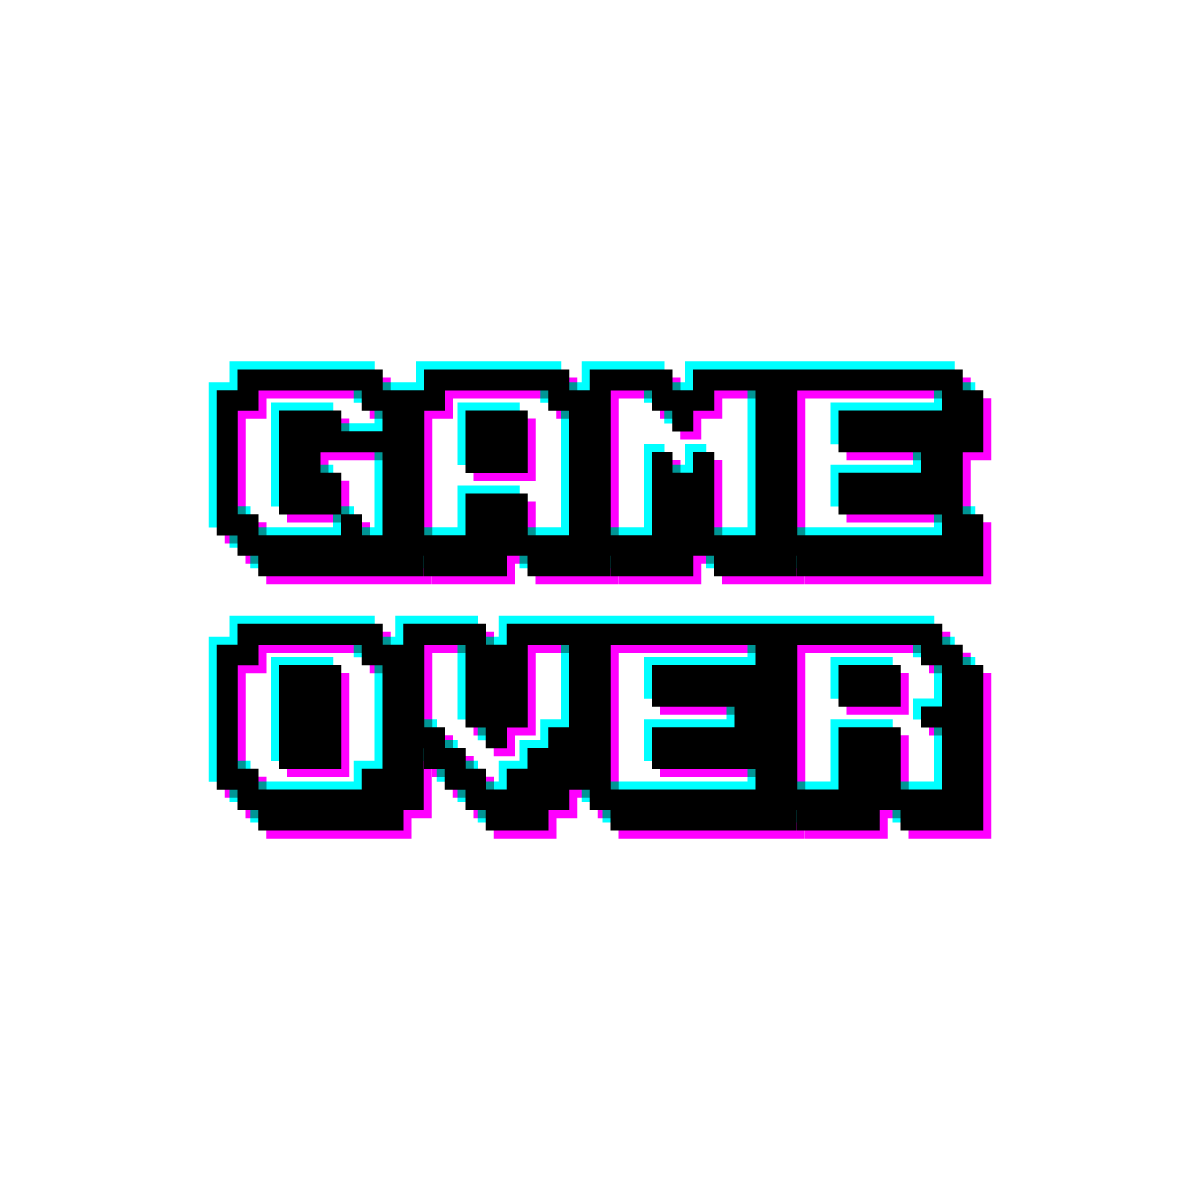
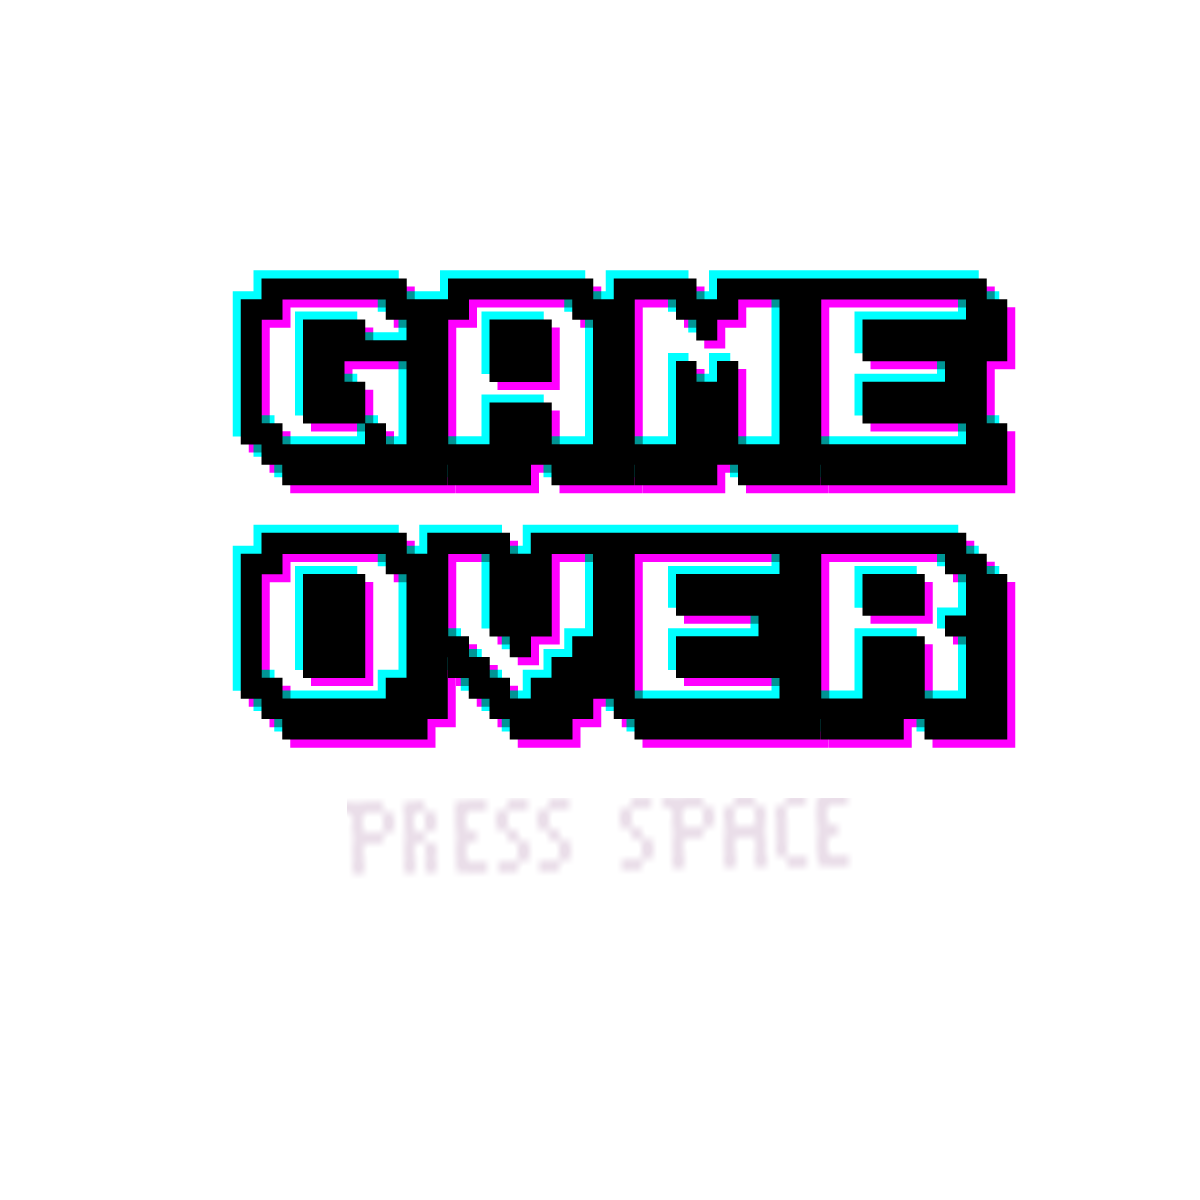
feat: game over

Changed region(s): [[0.1542, 0.2158, 0.8633, 0.74]]

diff --git a/src/view/OfflineGame.java b/src/view/OfflineGame.java
@@ -8,6 +8,7 @@ import game.dropitem.DropItem;
 import game.enemy.EnemyDeadState;
 import game.enemy.EnemyDespawnState;
 import game.gamestate.*;
+import game.player.PlayerNoLiveState;
 import game.player.PlayerStandState;
 import helper.*;
 import javafx.animation.AnimationTimer;
@@ -32,6 +33,10 @@ import javafx.util.Duration;
 
 public class OfflineGame {
 
+    private Stage stage;
+
+    private AnimationTimer timer;
+
     private Player player;
     private Pane root;
     private Scene scene;
@@ -51,45 +56,53 @@ public class OfflineGame {
     public GameOverState overState;
 
     public OfflineGame(Stage stage) {
-        initialize(stage);
-        setupGameLoop();
-        setupAudio();
-    }
-
-    private void initialize(Stage stage) {
-        root = new Pane();
+        this.stage = stage;
+        this.root = new Pane();
 
         this.scene = new Scene(root, ScreenManager.SCREEN_WIDTH, ScreenManager.SCREEN_HEIGHT);
+        inputManager = InputManager.getInstance(scene);
+
+        player = Player.getInstance();
+        player.setX(ScreenManager.SCREEN_WIDTH / 2);
+        player.setY(ScreenManager.SCREEN_HEIGHT / 2);
+
+        groundSprites = ImageManager.importGroundSprites("tile");
 
         this.startState = new GameStartState(this);
         this.playState = new GamePlayState(this);
         this.pauseState = new GamePauseState(this);
         this.overState = new GameOverState(this);
 
-        inputManager = InputManager.getInstance(scene);
-
-        player = Player.getInstance();
-        player.setX(player.getPosX());
-        player.setY(player.getPosY());
-
-        groundSprites = ImageManager.importGroundSprites("tile");
-
-        setupBackground();
+        initialize(stage);
+        setupGameLoop();
+        setupAudio();
 
         this.currentState = this.startState;
         this.currentState.onEnterState();
 
         stage.setScene(scene);
         stage.setTitle("Offline Game");
+    }
+
+    private void initialize(Stage stage) {
+
+        setupBackground();
+
+        setUpGui();
+    }
+
+    public void reinitialize() {
+        setupBackground();
 
         setUpGui();
     }
 
     private boolean isPaused = false;
     private MediaPlayer mediaPlayer;
+    private MediaPlayer death = new MediaPlayer(new Media(new File("resources/game/soundFX/death.wav").toURI().toString()));
 
     private void setupGameLoop() {
-        AnimationTimer timer = new AnimationTimer() {
+        this.timer = new AnimationTimer() {
             @Override
             public void handle(long now) {
                 if(currentState instanceof GamePauseState) {
@@ -100,7 +113,7 @@ public class OfflineGame {
                 currentState.onUpdate(now);
             }
         };
-        timer.start();
+        this.timer.start();
     }
 
     private void setupAudio() {
@@ -279,6 +292,30 @@ public class OfflineGame {
         }
 
 //        System.out.println(player.getScore());
+    }
+
+    public void cleanUp() {
+        root.getChildren().clear();
+
+        player.setLives(3);
+        player.setScore(0);
+        player.changeState(player.respawnState);
+
+        mediaPlayer.stop();
+        mediaPlayer.dispose();
+
+        root.getChildren().removeAll(enemyList);
+        root.getChildren().removeAll(bulletManager.getBulletList());
+
+        enemyList.clear();
+        bulletManager.getBulletList().clear();
+        itemManager.getItemList().clear();
+
+        this.timer.stop();
+
+        reinitialize();
+        setupGameLoop();
+        setupAudio();
     }
 
     public Scene getScene() {

diff --git a/src/game/player/PlayerDeadState.java b/src/game/player/PlayerDeadState.java
@@ -11,25 +11,16 @@ public class PlayerDeadState extends PlayerBaseState{
 
     private double lastTimeFrame = 0;
     private int frame = 0;
-    private MediaPlayer mediaPlayer;
 
     public PlayerDeadState(Player player) {
         super(player);
-
-        File file = new File("resources/game/soundFX/death.wav");
-        Media media = new Media(file.toURI().toString());
-        this.mediaPlayer = new MediaPlayer(media);
     }
 
     @Override
     public void onEnterState() {
-        player.setLives(player.getLives() - 1);
+        this.player.setLives(player.getLives() - 1);
         this.frame = 0;
         this.lastTimeFrame = 0;
-
-        if(player.getLives() == -1) {
-            this.mediaPlayer.play();
-        }
     }
 
     @Override

diff --git a/src/game/gamestate/GameOverState.java b/src/game/gamestate/GameOverState.java
@@ -1,9 +1,12 @@
 package game.gamestate;
 
+import helper.InputManager;
 import helper.ScreenManager;
 import javafx.scene.image.Image;
 import javafx.scene.image.ImageView;
+import javafx.scene.input.KeyCode;
 import view.OfflineGame;
+
 
 public class GameOverState extends GameBaseState {
 
@@ -28,6 +31,10 @@ public class GameOverState extends GameBaseState {
 
     @Override
     public void onUpdate(long now) {
-
+        if(InputManager.getPressedKeys().contains(KeyCode.SPACE)) {
+            game.getRoot().getChildren().remove(guiView);
+            game.cleanUp();
+            game.changeState(game.startState);
+        }
     }
 }

diff --git a/src/game/gamestate/GameStartState.java b/src/game/gamestate/GameStartState.java
@@ -18,6 +18,7 @@ public class GameStartState extends GameBaseState{
 
     @Override
     public void onEnterState() {
+
         Image gui = ImageManager.importGUI("start-banner");
         guiView = new ImageView(gui);
         this.game.getRoot().getChildren().add(guiView);
@@ -30,6 +31,7 @@ public class GameStartState extends GameBaseState{
 
         guiView.setX(screenWidth / 2 - gui.getWidth() * 3 / 2);
         guiView.setY(screenHeight / 2 - gui.getHeight() * 3 / 2);
+
     }
 
     @Override

diff --git a/src/game/Player.java b/src/game/Player.java
@@ -73,7 +73,7 @@ public class Player extends ImageView {
         this.respawnState = new PlayerRespawnState(this);
         this.noLiveState = new PlayerNoLiveState(this);
 
-        this.currentState = this.deadState;
+        this.currentState = this.standState;
 
         this.sprite = new Image("file:resources/game/player/down-1.png");
         this.setImage(this.sprite);
